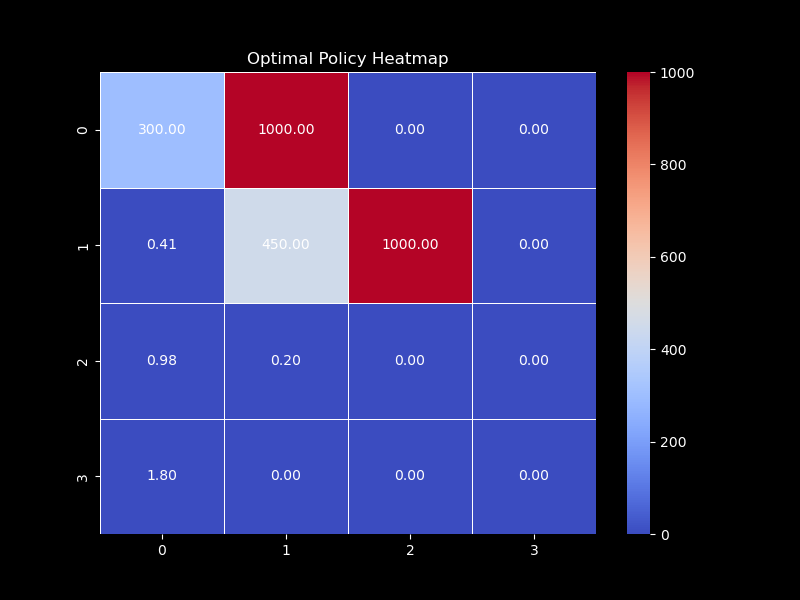
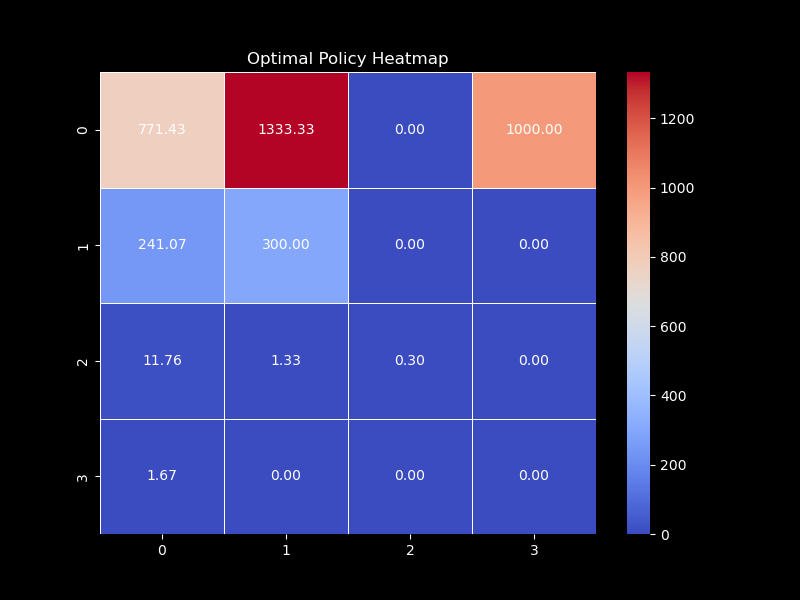
Fixed Epsilon Value

diff --git a/Programming_Assignments/Assignment_2/mordor.py b/Programming_Assignments/Assignment_2/mordor.py
@@ -224,7 +224,7 @@ def q_learning(num_episodes, checkpoints, gamma=0.9, epsilon=0.9):
             if terminated or truncated:
                 break
 
-        epsilon = 0.999 * epsilon
+        epsilon = 0.9999 * epsilon
 
         if i in checkpoints:
             V_opt = calculate_V_opt(Q)
